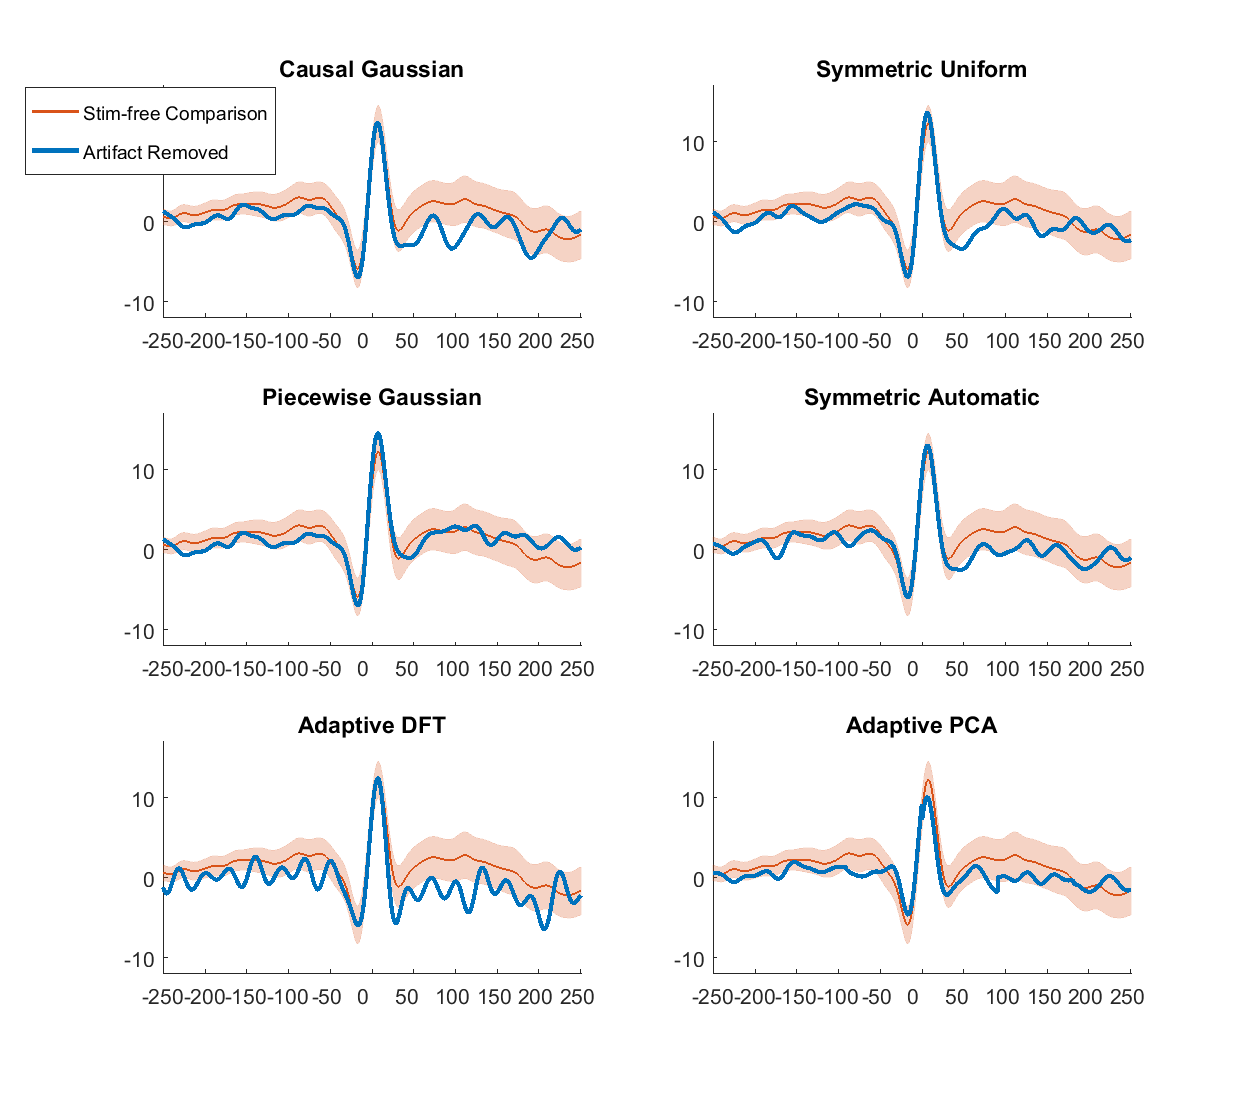
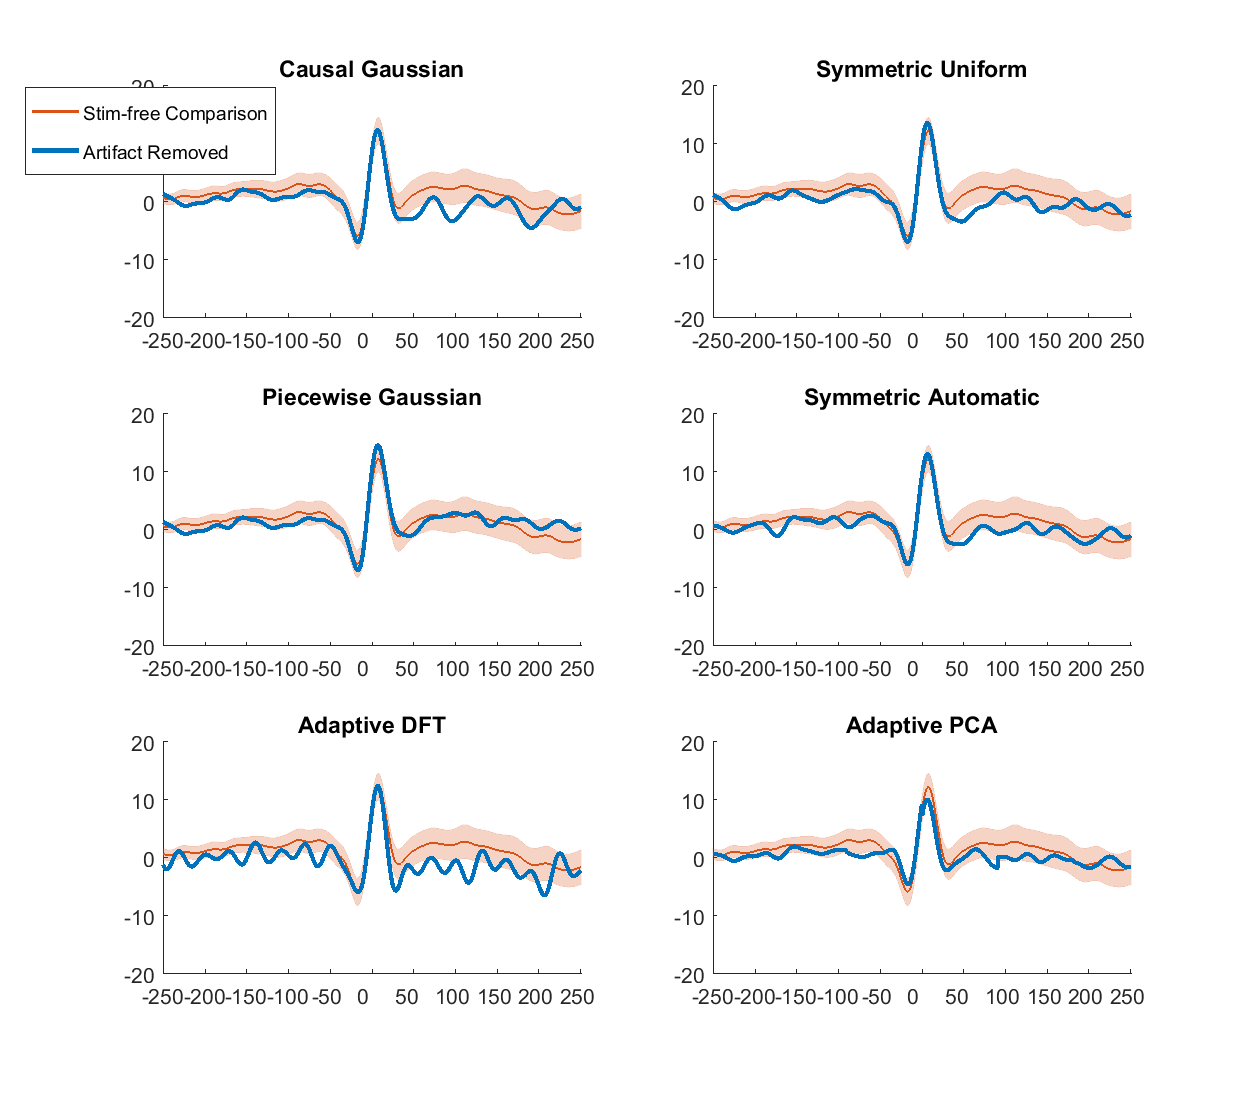
Add R² plot to readme

diff --git a/docs/ecg_analysis.m b/docs/ecg_analysis.m
@@ -170,7 +170,7 @@ for fidx = [4,6,14,10,16,17]
         h2 = plot(squeeze(Efun(F(fidx,:,toi),2))','linewidth',2,'color',[0 0.4470  0.7410]);
     end
     set(gca,'xlim',[1 length(toi)],'xtick',[1:50:4000],'xticklabel',[(-length(toi)/2+1):50:length(toi)/2])
-    set(gca,'ylim',[-12 17])
+    set(gca,'ylim',[-20 20],'ytick',[-1000:10:1000])
     title(filt_axis{fidx})   
 end
 h = legend([h1,h2],'Stim-free Comparison','Artifact Removed','95% CI');

diff --git a/readme.md b/readme.md
@@ -10,7 +10,7 @@ This research is supported by the [BMBF: FKZ 13GW0119](https://www.medizintechno
 | _Recover the ECG_<br>(which is ~120dB weaker than tACS) |<img src="docs\img\eva\ecg_raw.png" width= "400">|
 #### Performance
 <img src="docs\img\eva\ecg_performance.png" width = "1000">
-Recovery (R²) of an ECG for a variety of filtering approaches
+
 
 #### Weighted Comb Filter
 Filters the signal. Artifact can be _non-stationary_ and  _non-sinusoidal_, but is required to be _periodic_. Comb filters natively support only frequencies which are integer divisibles of the sampling frequency. When artacs.kernel.run is used, the signal is automatically resampled, to circumvent this limitation. Note that the method still requires integer frequencies.
@@ -57,6 +57,8 @@ filtered_signal = artacs.dft.local(signal,freq,Fs,NumberPeriods)
 filtered_signal = artacs.dft.complete(signal,freq,Fs)
 ```
 
+<img src = "./docs/img/eva/recovery_ecg.png">
+Recovery (R²) of an ECG for a variety of filtering approaches
 
 ###### More information:
 [On creating simulated signals](generate.md)
